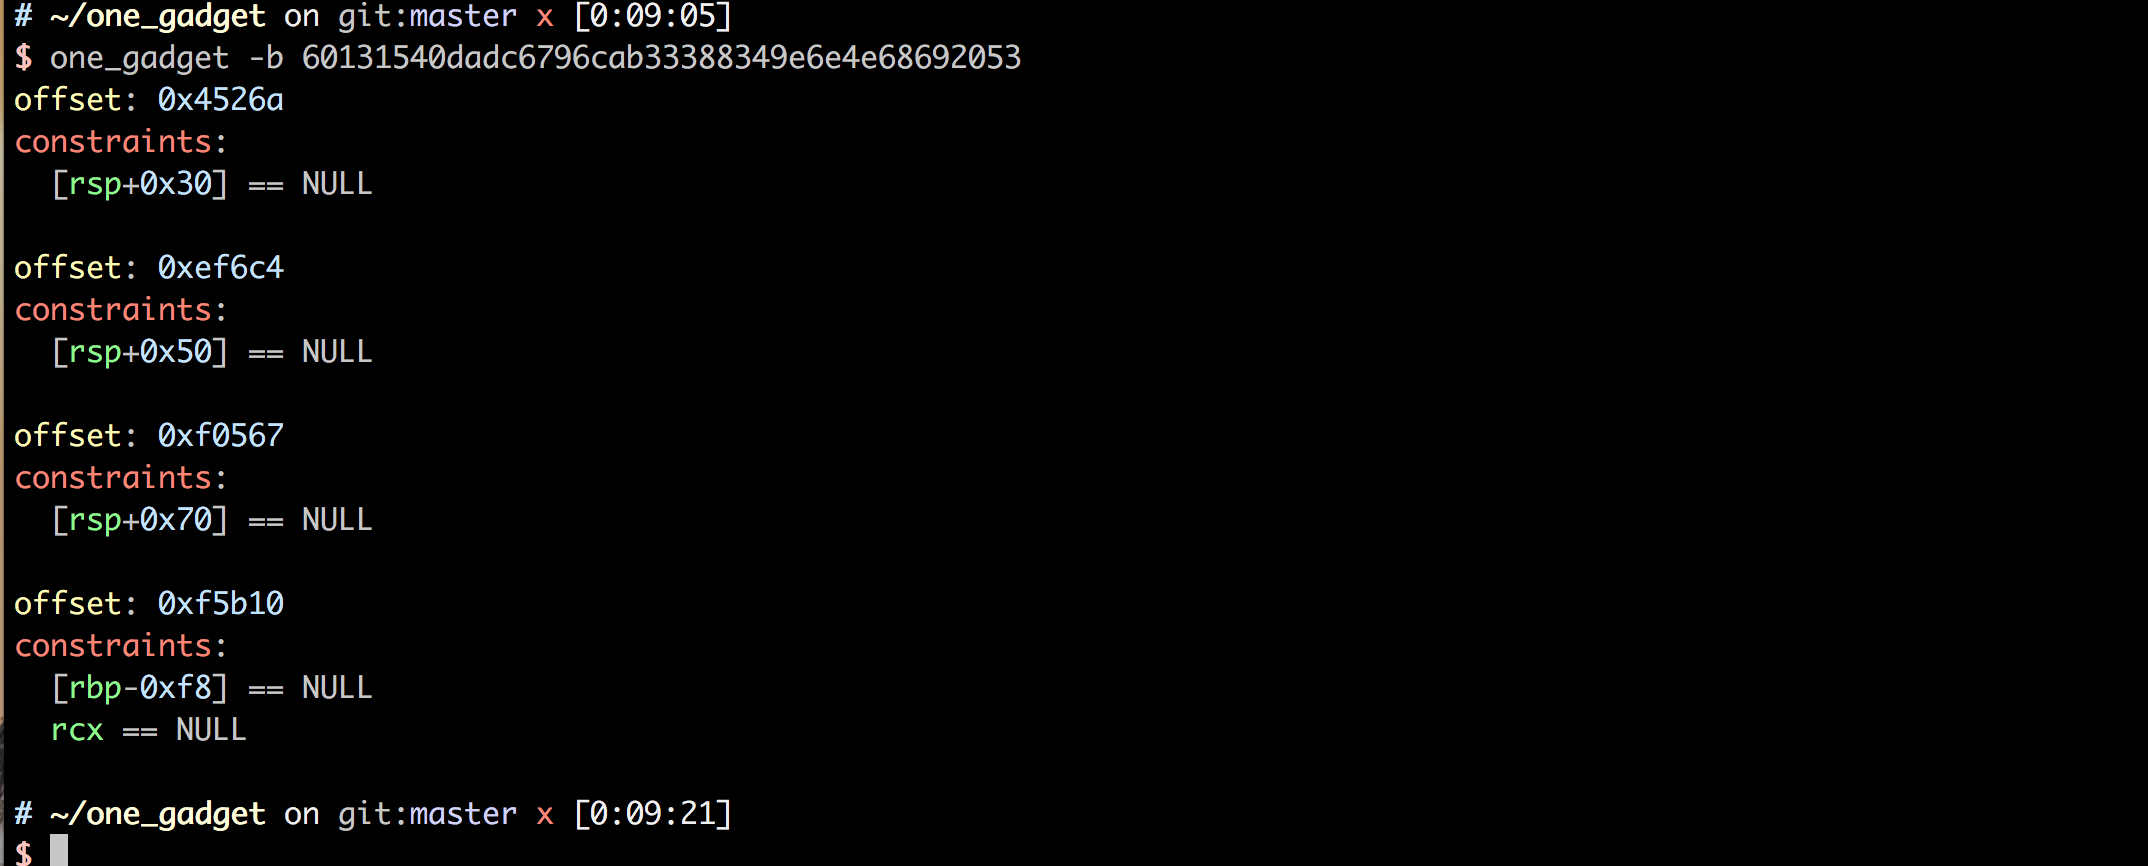
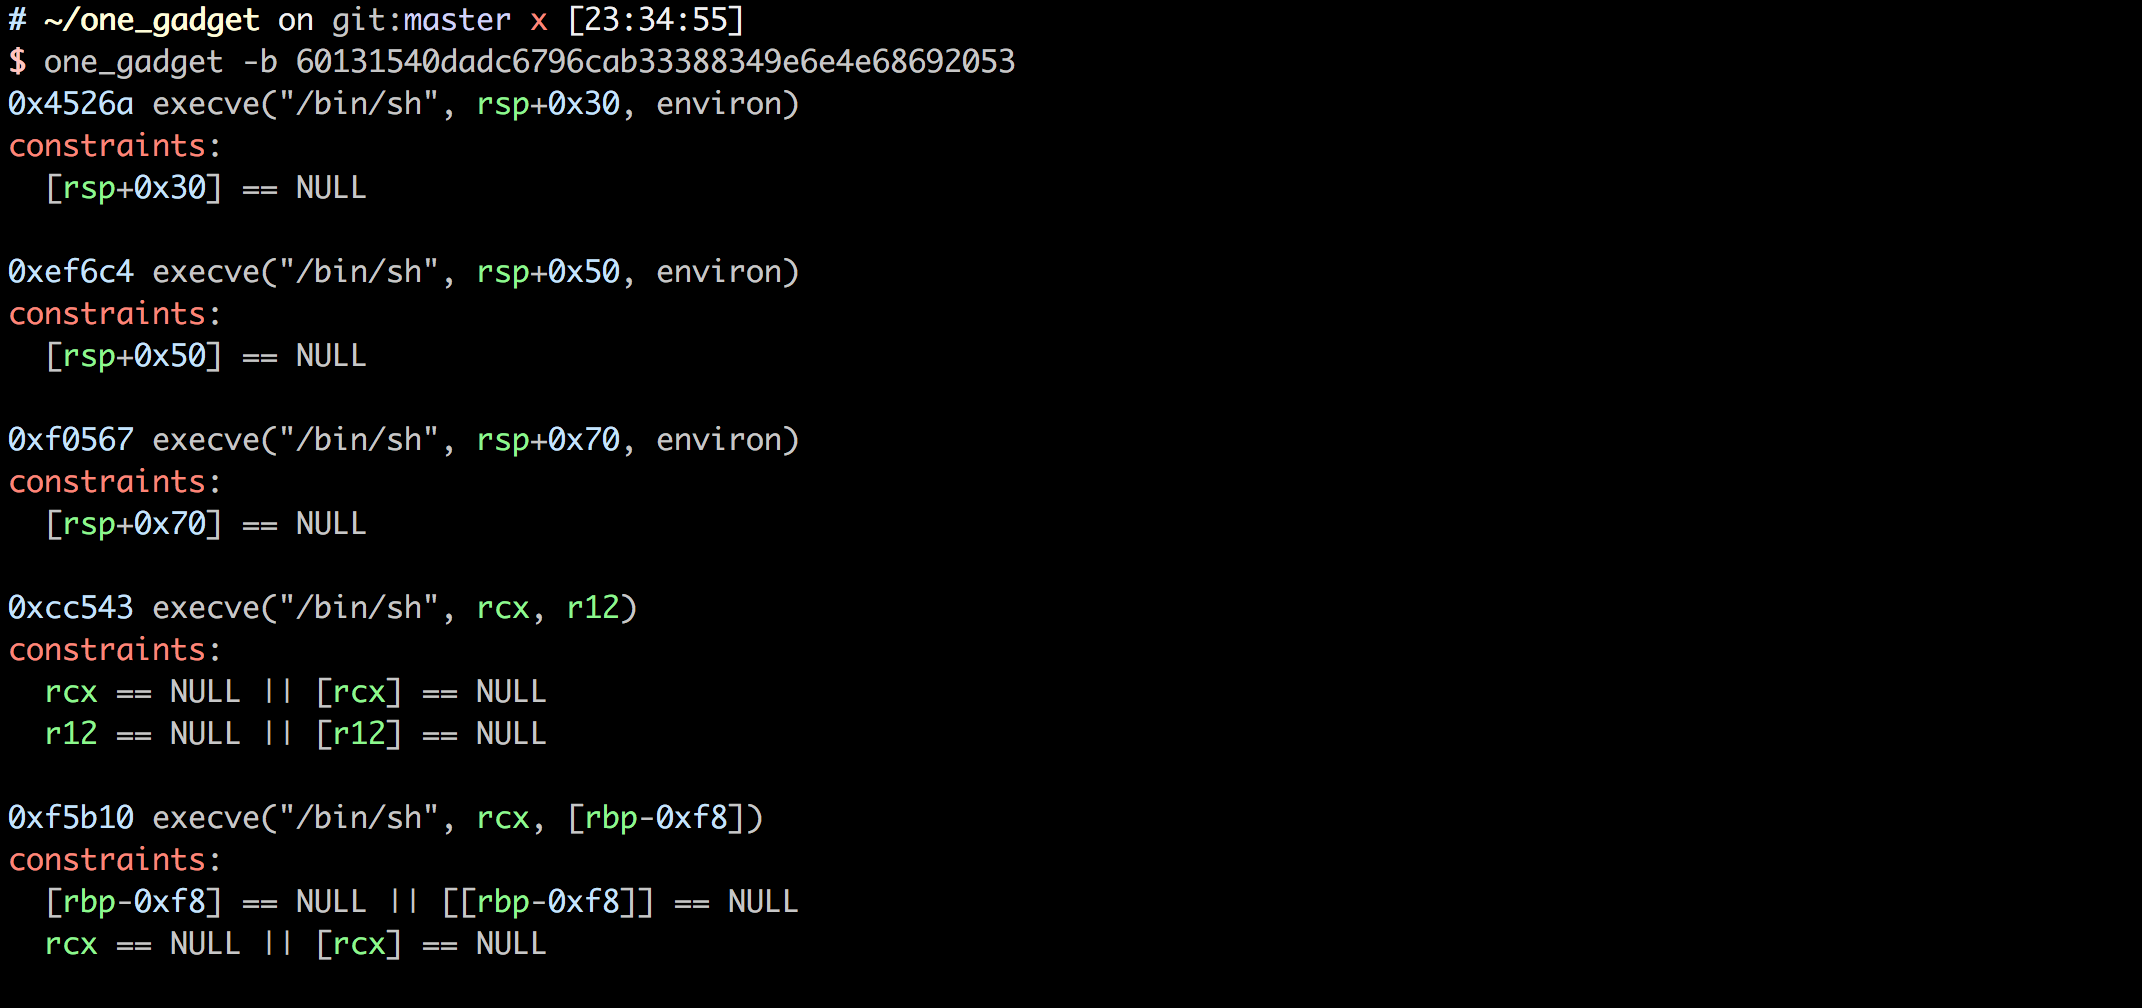
update README.md

Changed region(s): [[0.0, 0.0, 0.493, 1.0]]

diff --git a/lib/one_gadget/builds/libc-2.23-60131540dadc6796cab33388349e6e4e68692053.rb b/lib/one_gadget/builds/libc-2.23-60131540dadc6796cab33388349e6e4e68692053.rb
@@ -8,6 +8,9 @@ OneGadget::Gadget.add(build_id, 0xef6c4, constraints: ['[rsp+0x50] == NULL'],
                                          effect: 'execve("/bin/sh", rsp+0x50, environ)')
 OneGadget::Gadget.add(build_id, 0xf0567, constraints: ['[rsp+0x70] == NULL'],
                                          effect: 'execve("/bin/sh", rsp+0x70, environ)')
+OneGadget::Gadget.add(build_id, 0xcc543, constraints: ['rcx == NULL || [rcx] == NULL',
+                                                       'r12 == NULL || [r12] == NULL'],
+                                         effect: 'execve("/bin/sh", rcx, r12)')
 OneGadget::Gadget.add(build_id, 0xf5b10, constraints: ['[rbp-0xf8] == NULL || [[rbp-0xf8]] == NULL',
                                                        'rcx == NULL || [rcx] == NULL'],
                                          effect: 'execve("/bin/sh", rcx, [rbp-0xf8])')

diff --git a/README.md b/README.md
@@ -1,5 +1,5 @@
 [![Build Status](https://travis-ci.org/david942j/one_gadget.svg?branch=master)](https://travis-ci.org/david942j/one_gadget)
-![](http://ruby-gem-downloads-badge.herokuapp.com/one_gadget?type=total&color=orange)
+[![Downloads](http://ruby-gem-downloads-badge.herokuapp.com/one_gadget?type=total&color=orange)](https://rubygems.org/gems/one_gadget)
 [![Code Climate](https://codeclimate.com/github/david942j/one_gadget/badges/gpa.svg)](https://codeclimate.com/github/david942j/one_gadget)
 [![Issue Count](https://codeclimate.com/github/david942j/one_gadget/badges/issue_count.svg)](https://codeclimate.com/github/david942j/one_gadget)
 [![Test Coverage](https://codeclimate.com/github/david942j/one_gadget/badges/coverage.svg)](https://codeclimate.com/github/david942j/one_gadget/coverage)
@@ -41,38 +41,43 @@ one_gadget
 #                                      The script will be run as 'exploit-script $offset'.
 
 one_gadget -b 60131540dadc6796cab33388349e6e4e68692053
-# offset: 0x4526a
+# 0x4526a execve("/bin/sh", rsp+0x30, environ)
 # constraints:
 #   [rsp+0x30] == NULL
-#
-# offset: 0xef6c4
+# 
+# 0xef6c4 execve("/bin/sh", rsp+0x50, environ)
 # constraints:
 #   [rsp+0x50] == NULL
-#
-# offset: 0xf0567
+# 
+# 0xf0567 execve("/bin/sh", rsp+0x70, environ)
 # constraints:
 #   [rsp+0x70] == NULL
-#
-# offset: 0xf5b10
+# 
+# 0xcc543 execve("/bin/sh", rcx, r12)
 # constraints:
-#   [rbp-0xf8] == NULL
-#   rcx == NULL
+#   rcx == NULL || [rcx] == NULL
+#   r12 == NULL || [r12] == NULL
+# 
+# 0xf5b10 execve("/bin/sh", rcx, [rbp-0xf8])
+# constraints:
+#   [rbp-0xf8] == NULL || [[rbp-0xf8]] == NULL
+#   rcx == NULL || [rcx] == NULL
 
 one_gadget /lib/i386-linux-gnu/libc.so.6
-# offset: 0x3ac69
+# 0x3ac69 execve("/bin/sh", esp+0x34, environ)
 # constraints:
 #   esi is the address of `rw-p` area of libc
 #   [esp+0x34] == NULL
-#
-# offset: 0x5fbbe
+# 
+# 0x5fbc5 execl("/bin/sh", eax)
 # constraints:
 #   esi is the address of `rw-p` area of libc
 #   eax == NULL
-#
-# offset: 0x12036c
+# 
+# 0x5fbc6 execl("/bin/sh", [esp])
 # constraints:
 #   esi is the address of `rw-p` area of libc
-#   eax == NULL
+#   [esp] == NULL
 
 ```
 
@@ -90,13 +95,18 @@ one_gadget ./spec/data/libc-2.19.so -s 'echo "offset ->"'
 ```ruby
 require 'one_gadget'
 OneGadget.gadgets(file: '/lib/x86_64-linux-gnu/libc.so.6')
-# => [283242, 980676, 984423, 1006352]
+# => [283242, 980676, 984423, 836931, 1006352]
 ```
 
 ## Screenshots
 
 ### Search gadgets from file
+
+#### 64 bit
 ![from file](https://github.com/david942j/one_gadget/blob/master/examples/from_file.png?raw=true)
+
+#### 32 bit
+![from file](https://github.com/david942j/one_gadget/blob/master/examples/from_file_32bit.png?raw=true)
 
 ### Fetch gadgets from database
 ![build id](https://github.com/david942j/one_gadget/blob/master/examples/from_build_id.png?raw=true)
